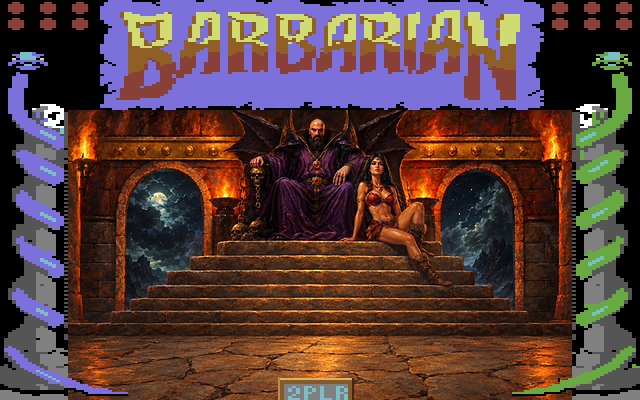
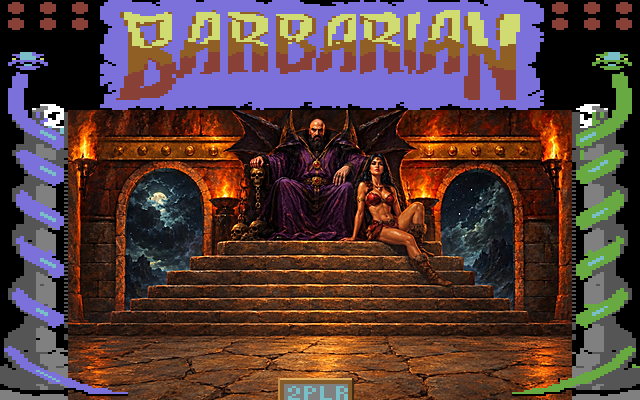
Select artwork resolution based on display
Choose the screen scale and image variants at startup, while preserving the scale override. Add 4x and 6x painted throne room assets and update their generation script and documentation.

Changed region(s): [[0.6562, 0.33, 0.6875, 0.36], [0.3125, 0.33, 0.3438, 0.36]]

diff --git a/js/gfx/resolution.js b/js/gfx/resolution.js
@@ -1,0 +1,48 @@
+/**
+ * Which resolution the game runs at, and which file of the asset pack shows each image at it.
+ *
+ * An image of the pack can come in several resolutions: its "images" file is drawn at the pack's "scale"
+ * (or its "imageScales" entry), and "variants" (by image key, { scale: file }) adds files drawn at other scales.
+ * The screen resolution is chosen once, when the game starts, and every image is then loaded in the resolution
+ * that fits it best, so artwork is never stretched or shrunk at run time: reducing it is done once, offline.
+ */
+import { clampScale } from './images.js';
+import { WIDTH } from './surface.js';
+
+// Every resolution the pack has artwork for, smallest first.
+export function packScales(manifest) {
+  const scales = new Set([manifest.scale || 1, ...Object.values(manifest.imageScales || {})]);
+  for (const options of Object.values(manifest.variants || {})) {
+    for (const scale of Object.keys(options)) scales.add(Number(scale));
+  }
+  return [...scales].sort((a, b) => a - b);
+}
+
+/**
+ * The screen scale: `forced` (`?scale=N`) if given, else the smallest resolution of the pack that is hardly
+ * coarser than the display. `display` is the widest the game can be shown, in real pixels (see main.js).
+ */
+export function chooseScale(manifest, forced, display) {
+  if (forced) return clampScale(forced);
+  const scales = packScales(manifest);
+  const wanted = display / WIDTH;
+  return clampScale(scales.find((s) => s >= wanted * 0.8) ?? scales[scales.length - 1]);
+}
+
+/**
+ * The file and the scale of every image at screen scale `scale`: the variant with the highest resolution that
+ * the screen can show whole, or the lowest one when they are all finer than the screen.
+ */
+export function pickImages(manifest, scale) {
+  const files = {};
+  const scales = {};
+  for (const [key, file] of Object.entries(manifest.images)) {
+    const own = manifest.imageScales?.[key] ?? manifest.scale ?? 1;
+    const options = [[own, file]];
+    for (const [s, f] of Object.entries(manifest.variants?.[key] || {})) options.push([Number(s), f]);
+    options.sort((a, b) => a[0] - b[0]);
+    const fitting = options.filter(([s]) => s <= scale);
+    [scales[key], files[key]] = fitting.length ? fitting[fitting.length - 1] : options[0];
+  }
+  return { files, scales };
+}

diff --git a/js/main.js b/js/main.js
@@ -1,5 +1,6 @@
 import { Runtime } from './runtime.js';
 import { decodeImage } from './png.js';
+import { chooseScale, pickImages } from './gfx/resolution.js';
 import { attachGestures } from './gestures.js';
 import { buildTouchControls } from './touchpad.js';
 import { program } from './game.js';
@@ -17,17 +18,28 @@ function toggleFullscreen(want) {
   else document.exitFullscreen?.().catch(() => {});
 }
 
+// The widest the game can be shown on this device, in real pixels: fullscreen, in either orientation. The
+// resolution is chosen once, so it has to cover that, or going fullscreen (or turning the phone) would blur it.
+function displayWidth() {
+  const long = Math.max(screen.width, screen.height);
+  const short = Math.min(screen.width, screen.height);
+  return Math.min(long, short * 1.6) * (window.devicePixelRatio || 1);
+}
+
 async function boot() {
   const manifest = await fetch('assets/manifest.json').then((r) => r.json());
+  // ?scale=N forces the screen resolution (N real pixels per game pixel); by default it follows the display
+  const forced = Number(new URLSearchParams(location.search).get('scale')) || undefined;
+  const scale = chooseScale(manifest, forced, displayWidth());
+  // every image in the resolution that fits the screen
+  const { files, scales } = pickImages(manifest, scale);
   const images = {};
-  await Promise.all(Object.entries(manifest.images).map(async ([key, file]) => {
+  await Promise.all(Object.entries(files).map(async ([key, file]) => {
     const res = await fetch(`assets/${file}`);
     if (!res.ok) throw new Error(`cannot load ${file}`);
     images[key] = await decodeImage(await res.arrayBuffer());
   }));
-  // ?scale=N forces the screen resolution (N real pixels per game pixel); by default it follows the asset pack
-  const scale = Number(new URLSearchParams(location.search).get('scale')) || undefined;
-  const rt = new Runtime({ canvas, manifest, images, scale });
+  const rt = new Runtime({ canvas, manifest: { ...manifest, imageScales: scales }, images, scale });
   await rt.preloadFonts();
   rt.onFullscreen = toggleFullscreen;
   globalThis.barbarian = rt; // handy for debugging in the console

diff --git a/js/gfx/images.js b/js/gfx/images.js
@@ -18,7 +18,7 @@ export const MAX_SCALE = 8;
 
 const norm = (p) => String(p).replace(/\\/g, '/').replace(/^\.\//, '');
 
-const clampScale = (n) => Math.max(1, Math.min(MAX_SCALE, Math.round(Number(n)) || 1));
+export const clampScale = (n) => Math.max(1, Math.min(MAX_SCALE, Math.round(Number(n)) || 1));
 
 // The screen resolution that shows every image of the pack without resampling it down.
 export function packScale(manifest) {

diff --git a/tools/draw_throne.py b/tools/draw_throne.py
@@ -1,5 +1,8 @@
-"""Builds the throne room artwork at 2x in true colour: assets/HD/stage/throne.png and
-assets/HD/stage/throneBackground.png.
+"""Builds the throne room artwork in several resolutions, in true colour. For each resolution `s` (pixels per game
+pixel) it writes throne.png and throneBackground.png: s=2 in assets/HD/stage/, s=4 in assets/HD4/stage/ and s=6 in
+assets/HD6/stage/. The game picks the resolution that suits the display (see js/gfx/resolution.js and "variants" in
+assets/manifest.json), so every resolution is reduced here, once, from the painting with the best filter, never
+stretched or shrunk at run time.
 
 The room is a heroic-fantasy oil painting (tools/throne_painting.jpg: made with an image model from a layout
 reference of the room, in the manner of 1970s sword-and-sorcery cover art, then retouched). This script maps it
@@ -10,10 +13,11 @@ C64 picture: the logo and HUD area, the two pillars with their snakes (shared by
 in the bottom corners.
 
 With another painting, set PAINTING_TOP, FLATTEN_FROM and STAIRS_BASE (rows of the painting) to match it. The
-best fit is a painting at 1.738:1 (such as 1512x870) with the stairs ending at 74.5% of its height.
+best fit is a painting at 1.738:1 with the stairs ending at 74.5% of its height, as wide as the largest
+resolution (252 x 6 = 1512 pixels).
 
 throneBackground.png is the strip of the picture that the game draws again on every frame (game pixels
-32,96 to 288,176), so it is cut from the new picture. Run from the repository root:
+32,96 to 288,176), so it is cut from the picture of the same resolution. Run from the repository root:
 python tools/draw_throne.py   (needs Pillow and NumPy; the output is deterministic)
 """
 from pathlib import Path
@@ -24,21 +28,19 @@ from PIL import Image, ImageFilter
 ROOT = Path(__file__).resolve().parent.parent
 SOURCE = ROOT / 'assets/C64/stage/throne.png'
 PAINTING = ROOT / 'tools/throne_painting.jpg'
-PICTURE = ROOT / 'assets/HD/stage/throne.png'
-BACKGROUND = ROOT / 'assets/HD/stage/throneBackground.png'
 
-S = 2                 # pixels per game pixel
-W, H = 320 * S, 200 * S
+# resolution (pixels per game pixel) -> folder of assets/ that holds its pictures
+FOLDERS = {2: 'HD', 4: 'HD4', 6: 'HD6'}
+# unsharp mask (radius, percent) that gives back what the reduction takes away: less as the reduction gets smaller
+SHARPEN = {2: (1.5, 70), 4: (1.2, 55), 6: (0.9, 35)}
 
 # The part of the picture that is painted (game pixels); everything else is the C64 picture.
 ROOM = (34, 55, 286, 200)
-ROOM_W, ROOM_H = (ROOM[2] - ROOM[0]) * S, (ROOM[3] - ROOM[1]) * S
 
 PAINTING_TOP = 28     # first row of the painting that is used (just above the wing tips)
 FLATTEN_FROM = 430    # painting row of the first step: from here down the stairs are flattened gradually
 STAIRS_BASE = 808     # painting row where the stairs end and the floor starts
 FLOOR_START = 168     # game y where the floor starts in the game
-BAND = 6              # rows of the room resampled at a time
 
 
 def source_rows(scale, floor_row):
@@ -63,36 +65,52 @@ def source_rows(scale, floor_row):
     return lambda row: np.interp(row, rows, ys)
 
 
-def paint_room():
-    """The painting at the size of the room, with the stairs ending where the floor starts in the game."""
-    painting = Image.open(PAINTING).convert('RGB')
-    width, height = painting.size
-    scale = width / ROOM_W
-    floor_row = (FLOOR_START - ROOM[1]) * S
-    room = Image.new('RGB', (ROOM_W, ROOM_H))
+def lanczos(x, a=3):
+    return np.where(np.abs(x) < a, np.sinc(x) * np.sinc(x / a), 0.0)
+
+
+def resample_weights(starts, ends, size):
+    """Weights (output sample x source sample) of a Lanczos filter, as wide as each output sample is large."""
+    centres = (starts + ends) / 2
+    widths = np.maximum(ends - starts, 1.0)
+    weights = lanczos((np.arange(size) + 0.5 - centres[:, None]) / widths[:, None])
+    return (weights / weights.sum(axis=1, keepdims=True)).astype(np.float32)
+
+
+def paint_room(s):
+    """The painting at the size of the room, with the stairs ending where the floor starts in the game.
+
+    Rows and columns are resampled in one pass each, so the flattened stairs are filtered as finely as the rest."""
+    room_w, room_h = (ROOM[2] - ROOM[0]) * s, (ROOM[3] - ROOM[1]) * s
+    painting = np.asarray(Image.open(PAINTING).convert('RGB'), np.float32)
+    height, width, _ = painting.shape
+    scale = width / room_w
+    floor_row = (FLOOR_START - ROOM[1]) * s
+    rows = np.arange(room_h + 1)
     source = source_rows(scale, floor_row)
-    for top in range(0, floor_row, BAND):
-        bottom = min(top + BAND, floor_row)
-        box = (0, float(source(top)), width, float(source(bottom)))
-        room.paste(painting.resize((ROOM_W, bottom - top), Image.LANCZOS, box=box), (0, top))
-    floor = painting.resize((ROOM_W, ROOM_H - floor_row), Image.LANCZOS, box=(0, STAIRS_BASE, width, height))
-    room.paste(floor, (0, floor_row))
-    room = room.filter(ImageFilter.UnsharpMask(radius=1.0, percent=40, threshold=2))
+    edges = np.where(rows <= floor_row, source(np.minimum(rows, floor_row)),
+                     STAIRS_BASE + (rows - floor_row) * (height - STAIRS_BASE) / (room_h - floor_row))
+    columns = np.arange(room_w + 1) * scale
+    room = np.tensordot(resample_weights(edges[:-1], edges[1:], height), painting, axes=(1, 0))
+    room = np.moveaxis(np.tensordot(room, resample_weights(columns[:-1], columns[1:], width), axes=(1, 1)), 1, 2)
+    room = Image.fromarray(np.clip(np.rint(room), 0, 255).astype(np.uint8))
+    radius, percent = SHARPEN[s]
+    room = room.filter(ImageFilter.UnsharpMask(radius=radius, percent=percent, threshold=2))
     return np.asarray(room, np.float32)
 
 
-def nameplate(out):
+def nameplate(out, s):
     """A bronze plate under the label (an opaque 32x8 picture drawn at 142,192) and the label itself."""
-    x0, y0, x1, y1 = 139 * S, 189 * S, 177 * S, H
+    x0, y0, x1, y1 = 139 * s, 189 * s, 177 * s, 200 * s
     plate = np.zeros((y1 - y0, x1 - x0, 3), np.float32)
     plate[:] = (132, 92, 44)
-    plate[:S] = (226, 176, 98)
-    plate[:, :S] = (190, 140, 70)
-    plate[:, -S:] = (64, 42, 18)
+    plate[:s] = (226, 176, 98)
+    plate[:, :s] = (190, 140, 70)
+    plate[:, -s:] = (64, 42, 18)
     out[y0:y1, x0:x1] = plate
 
 
-def snake_tails(out, original):
+def snake_tails(out, original, s):
     """The tails of the pillar snakes curl into the floor in the corners: the C64 pixels, kept."""
     index = np.asarray(Image.open(SOURCE))
     core = (index == 14) | (index == 5)
@@ -105,28 +123,31 @@ def snake_tails(out, original):
         for dx in (-1, 0, 1):
             grown |= np.roll(np.roll(core, dy, 0), dx, 1)
     keep = grown & np.isin(index, (0, 3, 14, 5)) & window
-    mask = np.kron(keep, np.ones((S, S), bool))
+    mask = np.kron(keep, np.ones((s, s), bool))
     out[mask] = original[mask]
 
 
-def compose():
-    original = np.asarray(Image.open(SOURCE).convert('RGB').resize((W, H), Image.NEAREST), np.float32)
+def compose(s):
+    original = np.asarray(Image.open(SOURCE).convert('RGB').resize((320 * s, 200 * s), Image.NEAREST), np.float32)
     out = original.copy()
-    x0, y0, x1, y1 = (v * S for v in ROOM)
-    out[y0:y1, x0:x1] = paint_room()
-    nameplate(out)
-    snake_tails(out, original)
+    x0, y0, x1, y1 = (v * s for v in ROOM)
+    out[y0:y1, x0:x1] = paint_room(s)
+    nameplate(out, s)
+    snake_tails(out, original, s)
     # the "2PLR" label is part of the C64 picture: the game draws "1PLR" / "DEMO" over it
-    label = (142 * S, 192 * S, 174 * S, 200 * S)
+    label = (142 * s, 192 * s, 174 * s, 200 * s)
     out[label[1]:label[3], label[0]:label[2]] = original[label[1]:label[3], label[0]:label[2]]
     return np.clip(np.rint(out), 0, 255).astype(np.uint8)
 
 
 def main():
-    picture = compose()
-    Image.fromarray(picture).save(PICTURE, optimize=True)
-    # the strip the game draws on every frame: game pixels 32,96 to 288,176
-    Image.fromarray(picture[96 * S:176 * S, 32 * S:288 * S]).save(BACKGROUND, optimize=True)
+    for s, folder in FOLDERS.items():
+        picture = compose(s)
+        stage = ROOT / 'assets' / folder / 'stage'
+        stage.mkdir(parents=True, exist_ok=True)
+        Image.fromarray(picture).save(stage / 'throne.png', optimize=True)
+        # the strip the game draws on every frame: game pixels 32,96 to 288,176
+        Image.fromarray(picture[96 * s:176 * s, 32 * s:288 * s]).save(stage / 'throneBackground.png', optimize=True)
 
 
 if __name__ == '__main__':

diff --git a/README.md b/README.md
@@ -58,10 +58,12 @@ assets/             images (PNG + manifest.json), sounds and font (committed)
   * `graphics.js` – the QB64 statements (`SCREEN`, `COLOR`, `LOCATE`/`PRINT`, `LINE`, `PALETTE`,
     `_COPYPALETTE`, `_PALETTECOLOR`, `_LOADIMAGE`, `_PUTIMAGE`, `_CLEARCOLOR`, `_LOADFONT`/`_FONT`). The game keeps
     drawing in the 320×200 coordinates of the original ("game pixels"), whatever the resolution behind them;
-  * `surface.js` – the RGBA frame buffer: `scale` real pixels per game pixel in each direction (default: what the
-    asset pack needs, `?scale=N` in the URL forces it, 1 to 8), and the image blit (stretch, mirror, alpha, colour key);
+  * `surface.js` – the RGBA frame buffer: `scale` real pixels per game pixel in each direction (default: chosen from
+    the display, `?scale=N` in the URL forces it, 1 to 8), and the image blit (stretch, mirror, alpha, colour key);
   * `palette.js` – the palette that gives meaning to colour *numbers* (`COLOR`, `LINE`, `PRINT`, indexed images);
   * `images.js` – decoded assets → images, with their resolution (below);
+  * `resolution.js` – picks the screen resolution when the game starts and the file of every image that suits it
+    (the pack can ship an image in several resolutions, see "Several resolutions" below);
   * `text.js` – the 8×8 bitmap font and TrueType text, drawn at the screen resolution (anti-aliased above 1×).
 * **`js/png.js`** – image decoder. PNGs are decoded here, losslessly, because the browser's own decoder always
   expands to RGBA and would lose the palette indices the original's colour tricks rely on (indexed 1–8 bit, 8-bit
@@ -87,8 +89,14 @@ is behind each game pixel. [`assets/manifest.json`](assets/manifest.json) descri
 
 * `"scale"` – pixels per game pixel of the images (1 for the C64 artwork). A pack drawn at 4× has 1280×800 backdrops
   and 160×320 fighters, and the image still covers the same area of the game. `"imageScales"` (optional, by image key)
-  overrides it for single images, so old and new artwork can be mixed. The screen resolution follows the largest scale
-  of the pack (`?scale=N` forces another; lower-resolution images are enlarged by pixel replication).
+  overrides it for single images, so old and new artwork can be mixed. Lower-resolution images are enlarged by pixel
+  replication (which keeps pixel art sharp at whole multiples).
+* **Several resolutions** – `"variants"` (by image key, `{ "scale": "file" }`) adds files of the same image drawn at
+  other scales. When the game starts it picks the screen resolution from the display (`js/gfx/resolution.js`: the
+  smallest resolution of the pack that is hardly coarser than the widest the game can be shown, fullscreen included,
+  in real pixels; `?scale=N` forces another) and loads each image in the best variant that the screen can show whole.
+  So a painted picture is reduced once, offline, with a proper filter, and never shrunk or stretched in the browser;
+  a small screen downloads only the small files.
 * **Palette art vs true colour** – what the PNG stores decides how it is drawn:
   * *paletted* PNGs (the C64 artwork) are drawn in the colours of the screen palette: loaded in 8-bit mode they keep
     their indices (so palette tricks such as the opponent's colour per level keep working), in 32-bit mode each
@@ -99,18 +107,20 @@ is behind each game pixel. [`assets/manifest.json`](assets/manifest.json) descri
   a true-colour picture has none, so the pack's `"palette"` is used. Keep the opponent sprites paletted (at any
   scale) if the opponent's colour should change with the level.
 * **Artwork at 2×** – all the images (sprites, stages, menus) are shipped in `assets/HD/` at twice the C64 resolution
-  (`"scale": 2`, so the screen is 640×400). `assets/HD/` is generated from `assets/C64/` by
+  (`"scale": 2`, so the screen is at least 640×400). `assets/HD/` is generated from `assets/C64/` by
   `python tools/double_artwork.py` (needs Pillow): every pixel is repeated, so the blocky look, the palette indices
   and the transparency are kept, and the script points the manifest at the new files. To draw better artwork, edit
   the files in `assets/HD/` (keep them paletted where the original is, and twice the size of the C64 original) and
   stop running the script, which overwrites them.
-* **Painted throne room** – `assets/HD/stage/throne.png` is true colour (not paletted): the room is a
-  heroic-fantasy oil painting (`tools/throne_painting.jpg`, made with an image model from a layout reference), mapped
-  onto the game grid by `python tools/draw_throne.py` (needs Pillow and NumPy). It keeps the C64 logo/HUD area, the
-  pillars with their snakes and the label slab (the game draws the opaque 32×8 `1PLR` / `DEMO` picture at 142,192;
-  here it sits on a bronze plate). `throneBackground.png` is a crop of it (game pixels 32,96 to 288,176, which the
-  game draws again on every frame), so always regenerate both together, and don't run `double_artwork.py`
-  afterwards: it would overwrite them with the pixel-doubled C64 picture.
+* **Painted throne room** – `throne.png` and `throneBackground.png` are true colour (not paletted) and come in three
+  resolutions, `assets/HD/stage/` (2×), `assets/HD4/stage/` (4×) and `assets/HD6/stage/` (6×), listed in `"variants"`.
+  The room is a heroic-fantasy oil painting (`tools/throne_painting.jpg`, made with an image model from a layout
+  reference), mapped onto the game grid by `python tools/draw_throne.py` (needs Pillow and NumPy), which writes all of
+  them. It keeps the C64 logo/HUD area, the pillars with their snakes and the label slab (the game draws the opaque
+  32×8 `1PLR` / `DEMO` picture at 142,192; here it sits on a bronze plate). `throneBackground.png` is a crop of the
+  picture of the same resolution (game pixels 32,96 to 288,176, which the game draws again on every frame), so
+  always regenerate them together. The other images stay at 2× and are enlarged by replication on bigger screens.
+  Don't run `double_artwork.py` afterwards: it would overwrite the 2× throne with the pixel-doubled C64 picture.
 
 ## English naming
 
